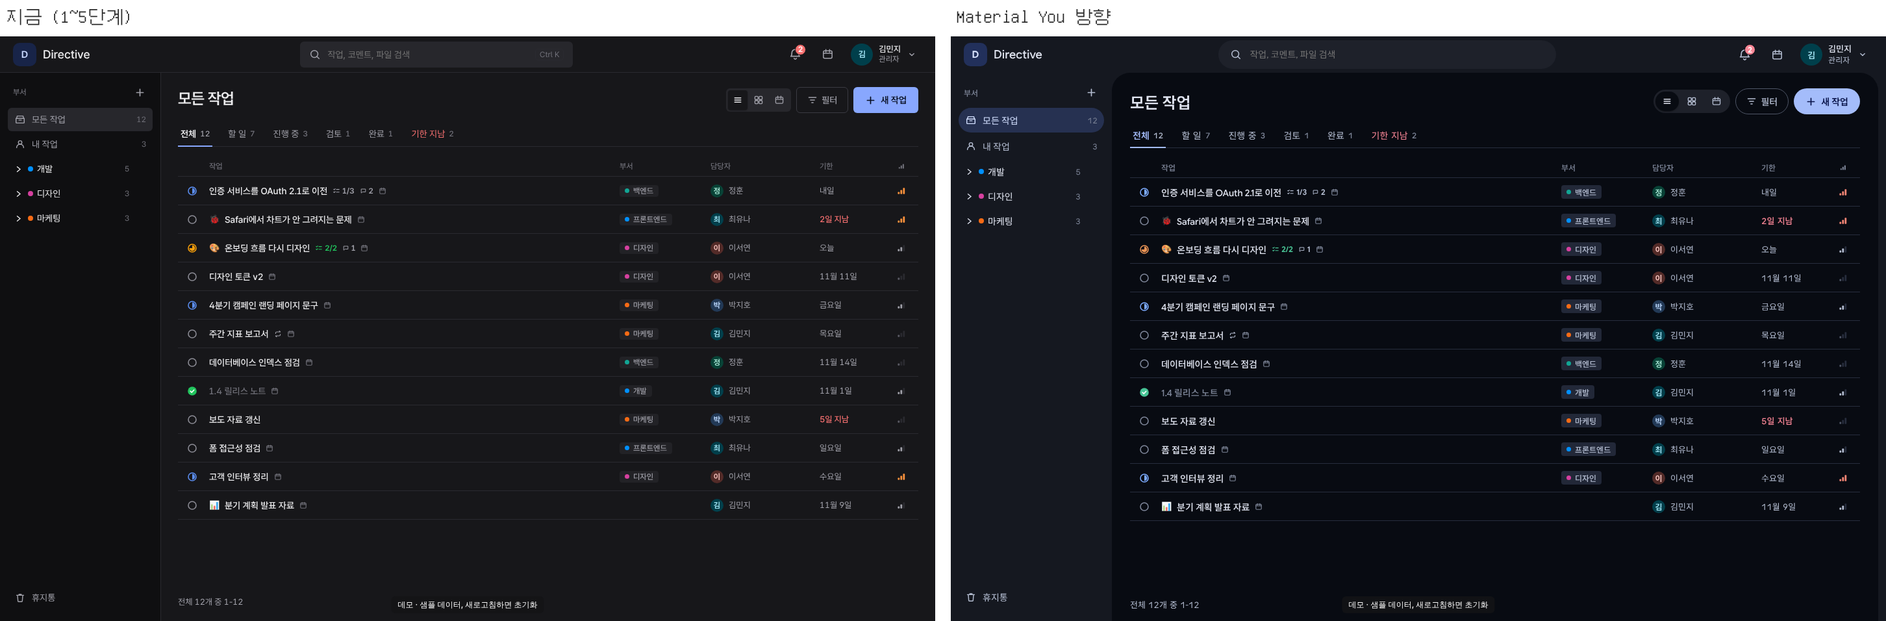
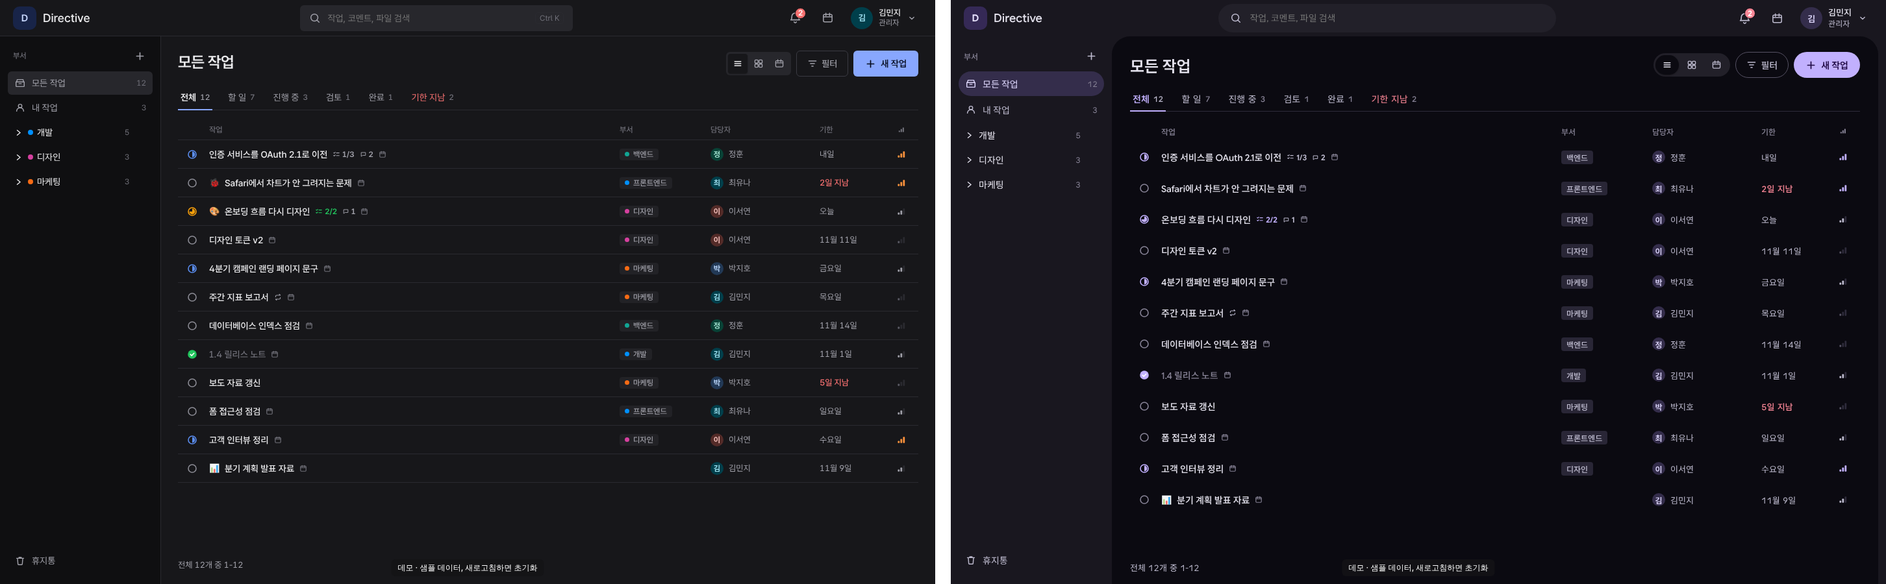
UI: purple accent, fewer colours, no dividers across all screens
Follows the Material You pass on the list through to every screen.

- Accent: Material's baseline purple #6750A4, with presets from the same
  tonal family.
- Fewer colours: status rings are grey for to do and the accent once work
  has started (the ring's fill already shows how far), with red kept for
  overdue only; high priority is the accent, the rest grey; every letter
  avatar uses the secondary container; checklists, progress and the
  calendar icon follow the accent instead of green. Department colours
  stay in the sidebar and calendar but leave the task tags. The demo's
  departments start without colours and with fewer emoji.
- No dividers: list rows, phone rows, the column-heading rule and the
  outlines on menus, popovers and board cards are gone; rows get rounded
  hover and selected backgrounds instead.
- Fix: the settings dialog now takes focus when it opens, and Escape works
  when focus has fallen back to the page outside the app root.
- docs: comparison images refreshed; the spec opens with the change of
  direction and what it supersedes.

Claude-Session: https://claude.ai/code/session_01NfUXVpwsyLAibRKH7HT9aF

diff --git a/server/static/app.js b/server/static/app.js
@@ -222,8 +222,6 @@
   // alike, but each is harmonized toward the seed (Material's colour
   // harmonization: turned up to 15 degrees toward it) so they sit in the same
   // family instead of reading as stock UI colours.
-  var STATUS_HUES = { inprogress: 255, review: 70, done: 150, overdue: 27 };
-  var PRIORITY_HUE = 45;
   function harmonize(hue, seed) {
     var d = ((seed - hue + 540) % 360) - 180;
     return hue + Math.max(-15, Math.min(15, d * 0.5));
@@ -286,7 +284,7 @@
       c.warningContainer = tone(harmonize(70, h), 0.06, 30);
       c.onWarningContainer = tone(harmonize(70, h), 0.08, 90);
     }
-    c.secondary = c.success;
+    c.secondary = c.primary;
     c.onSecondary = dark ? c.onPrimary : '#FFFFFF';
     c.tertiary = c.warning;
     c.tertiaryContainer = c.warningContainer;
@@ -296,30 +294,28 @@
   }
 
   // Status and priority colours for a scheme, harmonized toward its seed.
+  // Status and priority in one colour family. The ring's shape already says
+  // how far along a task is (empty, half, three quarters, full), so colour
+  // only has to separate "not started" from "under way": grey for to do, the
+  // accent for everything after it. Red is kept for one thing - late work -
+  // so it still stands out. High priority is the accent; the rest are grey.
   function statusColors(c) {
-    var h = hexToOklch(state.accent).H, dk = c.dark, out = {};
-    function tone(hue, chroma, t) { return oklchToHex(t / 100, chroma, hue); }
-    out.todo = { dot: c.textMuted, bg: c.surfaceContainerHigh, color: c.onSurfaceVariant };
-    Object.keys(STATUS_HUES).forEach(function (k) {
-      var hue = harmonize(STATUS_HUES[k], h);
-      out[k] = dk
-        ? { dot: tone(hue, 0.13, 74), bg: tone(hue, 0.06, 30), color: tone(hue, 0.08, 88) }
-        : { dot: tone(hue, 0.16, k === 'review' ? 66 : 56), bg: tone(hue, 0.05, 93), color: tone(hue, 0.12, 34) };
-    });
-    var ph = harmonize(PRIORITY_HUE, h);
-    return { status: out, priority: { High: dk ? tone(ph, 0.14, 74) : tone(ph, 0.17, 58), Medium: c.onSurfaceVariant, Low: c.outline } };
+    var on = { dot: c.primary, bg: c.secondaryContainer, color: c.onSecondaryContainer };
+    return {
+      status: {
+        todo: { dot: c.textMuted, bg: c.surfaceContainerHigh, color: c.onSurfaceVariant },
+        inprogress: on, review: on, done: on,
+        overdue: { dot: c.error, bg: c.errorContainer, color: c.onErrorContainer }
+      },
+      priority: { High: c.primary, Medium: c.onSurfaceVariant, Low: c.outline }
+    };
   }
 
-  // Letter avatars take one of eight quiet hues from the name, so a person
-  // keeps their colour everywhere and it never follows the accent.
-  var AVATAR_HUES = [25, 70, 135, 175, 215, 255, 300, 345];
+  // Letter avatars all share the secondary container: a name tells people
+  // apart, a rainbow of circles only adds noise.
   function avatarColors(name, dark) {
-    var s = String(name || ''), hash = 0;
-    for (var i = 0; i < s.length; i++) hash = (hash * 31 + s.charCodeAt(i)) | 0;
-    var hue = AVATAR_HUES[Math.abs(hash) % AVATAR_HUES.length];
-    return dark
-      ? { bg: oklchToHex(0.34, 0.06, hue), color: oklchToHex(0.88, 0.07, hue) }
-      : { bg: oklchToHex(0.92, 0.045, hue), color: oklchToHex(0.38, 0.09, hue) };
+    var c = deriveColors(state.accent, !!dark);
+    return { bg: c.secondaryContainer, color: c.onSecondaryContainer };
   }
 
   var TAB_ORDER = ['all', 'todo', 'inprogress', 'review', 'done', 'overdue'];
@@ -335,7 +331,7 @@
   var LOCALE = LANG === 'ko' ? 'ko-KR' : 'en-US';
   function shortDate(d) { return d.toLocaleDateString(LOCALE, { month: 'short', day: 'numeric' }); }
   var CONTENT_OUT_MS = 90, CONTENT_IN_MS = 140, MODAL_CLOSE_MS = 160;
-  var ACCENT_PRESETS = ['#3451D1', '#0F766E', '#7C3AED', '#C2410C', '#BE185D'];
+  var ACCENT_PRESETS = ['#6750A4', '#006A6A', '#3A5BA9', '#8B5000', '#984061'];
   var ICON = {
     listView: '<svg width="16" height="16" viewBox="0 0 20 20" fill="none" stroke="currentColor" stroke-width="1.7" stroke-linecap="round"><path d="M4 6h12M4 10h12M4 14h12"></path></svg>',
     gridView: '<svg width="16" height="16" viewBox="0 0 20 20" fill="none" stroke="currentColor" stroke-width="1.7"><rect x="3" y="3" width="6" height="6" rx="1.3"></rect><rect x="11" y="3" width="6" height="6" rx="1.3"></rect><rect x="3" y="11" width="6" height="6" rx="1.3"></rect><rect x="11" y="11" width="6" height="6" rx="1.3"></rect></svg>',
@@ -417,7 +413,7 @@
     guideModalPhase: 'closed',
     displayNameDraft: '',
 
-    accent: '#3451D1',
+    accent: '#6750A4',
     accentPickerPhase: 'closed',
     themeMode: 'system',
     appName: 'Directive',
@@ -3070,8 +3066,8 @@
     var shown = t.overdue ? 'overdue' : t.status;
     var dot = (maps.statusStyle[t.status] || maps.statusStyle.todo).dot;
     var done = t.status === 'done';
-    var cell = 'display:flex; align-items:center; min-width:0; padding:0 12px; height:44px; border-bottom:1px solid ' + c.outlineVariant + ';';
-    var dept = t.deptId ? '<span style="display:inline-flex; align-items:center; gap:6px; max-width:100%; overflow:hidden; font-size:12px; font-weight:500; padding:2px 8px; border-radius:var(--r-xs); background:' + c.surfaceVariant + '; color:' + c.onSurfaceVariant + ';">' + deptDot(t.deptId, 7) + '<span style="overflow:hidden; text-overflow:ellipsis; white-space:nowrap;">' + esc(nodeLabel(t.deptId).split(' · ').pop()) + '</span></span>' : '';
+    var cell = 'display:flex; align-items:center; min-width:0; padding:0 12px; height:48px;';
+    var dept = t.deptId ? '<span style="display:inline-flex; align-items:center; gap:6px; max-width:100%; overflow:hidden; font-size:12px; font-weight:500; padding:2px 8px; border-radius:var(--r-xs); background:' + c.surfaceVariant + '; color:' + c.onSurfaceVariant + ';"><span style="overflow:hidden; text-overflow:ellipsis; white-space:nowrap;">' + esc(nodeLabel(t.deptId).split(' · ').pop()) + '</span></span>' : '';
     // One row is one control: the cells sit on the table's own columns through
     // subgrid, so the whole row lights up under the pointer and takes a single
     // stop in the tab order, instead of six cells each reacting on their own.
@@ -3135,10 +3131,10 @@
     var dot = (maps.statusStyle[t.status] || maps.statusStyle.todo).dot;
     var done = t.status === 'done';
     var bits = [];
-    if (t.deptId) bits.push(deptDot(t.deptId, 7).replace('style="', 'style="display:inline-block; margin-right:5px; vertical-align:1px; ') + esc(nodeLabel(t.deptId).split(' · ').pop()));
+    if (t.deptId) bits.push(esc(nodeLabel(t.deptId).split(' · ').pop()));
     if (hasAssignee(t)) bits.push(esc(t.assignee));
     var due = t.dueDate ? '<span class="tnum" style="color:' + (t.overdue ? c.error : c.onSurfaceVariant) + '; font-weight:' + (t.overdue ? 500 : 400) + ';">' + esc(relativeDue(t.dueDate, t.overdue)) + '</span>' : '';
-    return '<div class="interactive task-row' + (t.id === state.justAddedTaskId ? ' row-highlight' : '') + '" data-action="openTask" data-id="' + t.id + '" style="display:flex; align-items:flex-start; gap:12px; padding:12px 4px; border-bottom:1px solid ' + c.outlineVariant + ';">'
+    return '<div class="interactive task-row' + (t.id === state.justAddedTaskId ? ' row-highlight' : '') + '" data-action="openTask" data-id="' + t.id + '" style="display:flex; align-items:flex-start; gap:12px; padding:12px 8px; border-radius:16px;">'
       + '<span style="padding-top:2px;">' + statusIconHtml(t.status, dot, 18) + '</span>'
       + '<div style="flex:1; min-width:0; display:flex; flex-direction:column; gap:4px;">'
       +   '<div style="display:flex; align-items:center; gap:6px; min-width:0;">' + taskIconHtml(t, 16) + '<span style="overflow:hidden; text-overflow:ellipsis; white-space:nowrap; font-size:15px; font-weight:500; color:' + (done ? c.textMuted : c.onSurface) + ';">' + esc(t.title) + '</span></div>'
@@ -3391,9 +3387,9 @@
     var v = taskView(t, maps, c);
     var writable = canWriteDept(t.deptId);
     var cls = 'interactive board-card' + (t.id === state.justAddedTaskId ? ' row-highlight' : '') + '';
-    return '<div class="' + cls + '"' + (writable ? ' draggable="true"' : '') + ' data-action="openTask" data-id="' + t.id + '" style="background:' + c.surface + '; border:1px solid ' + c.outlineVariant + '; border-radius:var(--r-md); box-shadow:var(--e1); padding:12px; min-width:0; display:flex; flex-direction:column; gap:8px;">'
+    return '<div class="' + cls + '"' + (writable ? ' draggable="true"' : '') + ' data-action="openTask" data-id="' + t.id + '" style="background:' + c.surface + '; border-radius:var(--r-md); padding:12px; min-width:0; display:flex; flex-direction:column; gap:8px;">'
       + '<div style="display:flex; align-items:flex-start; gap:6px; font-size:14px; font-weight:500; line-height:1.4; color:' + (t.status === 'done' ? c.textMuted : c.onSurface) + ';">' + taskIconHtml(t, 16) + '<span style="min-width:0; overflow-wrap:anywhere;">' + esc(t.title) + '</span></div>'
-      + '<div style="display:flex; align-items:center; gap:8px; flex-wrap:wrap; font-size:12px; color:' + c.textMuted + ';">' + (t.deptId ? '<span style="display:inline-flex; align-items:center; gap:5px; font-weight:500; padding:1px 6px; border-radius:var(--r-xs); background:' + c.surfaceVariant + '; color:' + c.onSurfaceVariant + ';">' + deptDot(t.deptId, 6) + esc(nodeLabel(t.deptId).split(' · ').pop()) + '</span>' : '') + taskBadges(t, c) + '</div>'
+      + '<div style="display:flex; align-items:center; gap:8px; flex-wrap:wrap; font-size:12px; color:' + c.textMuted + ';">' + (t.deptId ? '<span style="display:inline-flex; align-items:center; gap:5px; font-weight:500; padding:1px 6px; border-radius:var(--r-xs); background:' + c.surfaceVariant + '; color:' + c.onSurfaceVariant + ';">' + esc(nodeLabel(t.deptId).split(' · ').pop()) + '</span>' : '') + taskBadges(t, c) + '</div>'
       + searchMatchHtml(t, c)
       + '<div style="display:flex; align-items:center; gap:6px;">'
       +   (hasAssignee(t) ? assigneeAvatarHtml(t, v, 20) : '') + '<span style="flex:1;"></span>'
@@ -3514,7 +3510,7 @@
     var item = function (action, label, color) {
       return '<div class="interactive" role="menuitem" data-action="' + action + '" style="padding:9px 10px; border-radius:var(--r-sm); font-size:13px; color:' + color + ';">' + T(label) + '</div>';
     };
-    return '<div class="' + dropdownClass('brand') + '" role="menu" style="' + dropdownStyle('brand') + 'transform-origin:top left; position:absolute; top:46px; left:0; width:220px; background:' + c.surface + '; border:1px solid ' + c.outlineVariant + '; border-radius:var(--r-md); box-shadow:var(--e2); padding:8px; z-index:60; display:flex; flex-direction:column; gap:2px;">'
+    return '<div class="' + dropdownClass('brand') + '" role="menu" style="' + dropdownStyle('brand') + 'transform-origin:top left; position:absolute; top:46px; left:0; width:220px; background:' + c.surfaceContainer + '; border-radius:var(--r-md); box-shadow:var(--e2); padding:8px; z-index:60; display:flex; flex-direction:column; gap:2px;">'
       + '<div style="padding:6px 10px 4px 10px; font-size:12px; font-weight:500; color:' + c.onSurfaceVariant + ';">' + T('App icon (also used as the favicon)') + '</div>'
       + item('pickAppIcon', 'Upload image', c.onSurface)
       + item('removeAppIcon', 'Use the default icon', c.onSurface)
@@ -3614,7 +3610,7 @@
     var alertsSupported = typeof window.Notification === 'function';
 
     var notifPanel = (state.notifOpen || state.dropdownClosing === 'notif')
-      ? '<div class="' + dropdownClass('notif') + ' bell-panel" style="' + dropdownStyle('notif') + 'position:absolute; top:46px; right:0; width:380px; max-height:520px; display:flex; flex-direction:column; background:' + c.surface + '; border:1px solid ' + c.outlineVariant + '; border-radius:var(--r-md); box-shadow:var(--e2); z-index:60;">'
+      ? '<div class="' + dropdownClass('notif') + ' bell-panel" style="' + dropdownStyle('notif') + 'position:absolute; top:46px; right:0; width:380px; max-height:520px; display:flex; flex-direction:column; background:' + c.surfaceContainer + '; border-radius:var(--r-md); box-shadow:var(--e2); z-index:60;">'
         + '<div style="display:flex; align-items:center; gap:18px; padding:4px 14px 0; border-bottom:1px solid ' + c.outlineVariant + ';" role="tablist" aria-label="' + T('Notifications') + '">'
         +   bellTabBtn('mine', T('For you'), bellCount) + bellTabBtn('activity', T('Activity'), 0)
         +   (canMarkRead ? '<span class="interactive" data-action="markAllNotifsRead" style="margin-left:auto; font-size:12px; color:' + c.primary + '; font-weight:500;">' + T('Mark all read') + '</span>' : '')
@@ -3630,7 +3626,7 @@
       : '';
 
     var accountPanel = (state.accountOpen || state.dropdownClosing === 'account')
-      ? '<div class="' + dropdownClass('account') + '" style="' + dropdownStyle('account') + 'position:absolute; top:46px; right:0; width:260px; background:' + c.surface + '; border:1px solid ' + c.outlineVariant + '; border-radius:var(--r-md); box-shadow:var(--e2); padding:8px; z-index:60; display:flex; flex-direction:column; gap:2px;">'
+      ? '<div class="' + dropdownClass('account') + '" style="' + dropdownStyle('account') + 'position:absolute; top:46px; right:0; width:260px; background:' + c.surfaceContainer + '; border-radius:var(--r-md); box-shadow:var(--e2); padding:8px; z-index:60; display:flex; flex-direction:column; gap:2px;">'
         + '<div style="padding:8px 10px 6px 10px; display:flex; align-items:center; gap:10px;">'
           +   avatarHtml(avatarColors(state.user.displayName, c.dark).bg, avatarColors(state.user.displayName, c.dark).color, 44)
           +   '<div style="min-width:0;"><div style="font-size:13px; font-weight:600;">' + esc(state.user.displayName) + '</div><div style="font-size:12px; color:' + c.onSurfaceVariant + ';">@' + esc(state.user.username) + ' · ' + esc(T(state.user.role)) + '</div></div>'
@@ -3806,7 +3802,7 @@
 
     var filterField = 'height:36px; padding:0 10px; border-radius:var(--r-sm); border:1px solid ' + c.outline + '; font-size:13px; background:' + c.surface + '; color:' + c.onSurface + ';';
     var filterPanel = (state.filterOpen || state.dropdownClosing === 'filter')
-      ? '<div class="' + dropdownClass('filter') + '" style="' + dropdownStyle('filter') + 'position:absolute; top:46px; right:0; width:240px; background:' + c.surface + '; border:1px solid ' + c.outlineVariant + '; border-radius:var(--r-md); box-shadow:var(--e2); padding:14px; z-index:60; display:flex; flex-direction:column; gap:12px;">'
+      ? '<div class="' + dropdownClass('filter') + '" style="' + dropdownStyle('filter') + 'position:absolute; top:46px; right:0; width:240px; background:' + c.surfaceContainer + '; border-radius:var(--r-md); box-shadow:var(--e2); padding:14px; z-index:60; display:flex; flex-direction:column; gap:12px;">'
         + '<div><div style="font-size:12px; font-weight:600; letter-spacing:.03em; color:' + c.onSurfaceVariant + '; margin-bottom:6px;">' + T('SORT BY') + '</div>'
         +   mSelectFrom('<select id="filterSortSelect" aria-label="' + T('Sort by') + '" style="' + filterField + '">'
               + TASK_SORTS.map(function (o) { return '<option value="' + o[0] + '"' + (state.taskSort === o[0] ? ' selected' : '') + '>' + T(o[1]) + '</option>'; }).join('')
@@ -3835,7 +3831,7 @@
     var bodyHtml;
     var loadingNow = !state.tasksLoaded;
     if (isNarrowScreen()) {
-      bodyHtml = '<div data-scroll-key="' + esc(listScrollKey()) + '" style="flex:1; min-height:0; overflow:auto;"><div style="display:flex; flex-direction:column; border-top:1px solid ' + c.outlineVariant + ';">'
+      bodyHtml = '<div data-scroll-key="' + esc(listScrollKey()) + '" style="flex:1; min-height:0; overflow:auto;"><div style="display:flex; flex-direction:column; gap:2px;">'
         + (loadingNow ? skeletonRows(c, 6) : (pageItems.length ? pageItems.map(function (t) { return taskMobileRow(t, maps, c); }).join('') : emptyStateHtml(c)))
         + '</div></div>';
     } else if (state.viewMode === 'calendar') {
@@ -3855,7 +3851,7 @@
               var key = h[2], on = key && state.taskSort === key;
               var arrow = on ? '<svg width="10" height="10" viewBox="0 0 20 20" fill="none" stroke="currentColor" stroke-width="2.4" stroke-linecap="round" stroke-linejoin="round" aria-hidden="true"><path d="M10 4v12M5 11l5 5 5-5"></path></svg>' : '';
               var name = h[0] || h[1];
-              return '<div role="columnheader"' + (key ? ' class="interactive" data-action="sortByColumn" data-id="' + key + '" aria-sort="' + (on ? 'ascending' : 'none') + '" title="' + esc(T(on ? 'Back to the default order' : 'Sort by {col}', { col: name })) + '"' : '') + (h[1] ? ' aria-label="' + esc(h[1]) + '"' : '') + ' style="position:sticky; top:0; z-index:1; display:flex; align-items:center; gap:4px; height:32px; padding:0 12px; background:' + c.surface + '; font-size:12px; font-weight:' + (on ? 600 : 500) + '; color:' + (on ? c.onSurface : c.textMuted) + '; border-bottom:1px solid ' + c.outlineVariant + ';' + (i === 0 || i === 5 ? ' justify-content:center;' : '') + '">' + (i === 5 && !on ? '' : h[0]) + arrow + (i === 5 && !arrow ? '<svg width="12" height="12" viewBox="0 0 20 18" aria-hidden="true"><rect x="3" y="11" width="3.5" height="4" rx="1" fill="currentColor"></rect><rect x="8" y="7" width="3.5" height="8" rx="1" fill="currentColor"></rect><rect x="13" y="3" width="3.5" height="12" rx="1" fill="currentColor"></rect></svg>' : '') + '</div>';
+              return '<div role="columnheader"' + (key ? ' class="interactive" data-action="sortByColumn" data-id="' + key + '" aria-sort="' + (on ? 'ascending' : 'none') + '" title="' + esc(T(on ? 'Back to the default order' : 'Sort by {col}', { col: name })) + '"' : '') + (h[1] ? ' aria-label="' + esc(h[1]) + '"' : '') + ' style="position:sticky; top:0; z-index:1; display:flex; align-items:center; gap:4px; height:32px; padding:0 12px; background:' + c.surface + '; font-size:12px; font-weight:' + (on ? 600 : 500) + '; color:' + (on ? c.onSurface : c.textMuted) + ';' + (i === 0 || i === 5 ? ' justify-content:center;' : '') + '">' + (i === 5 && !on ? '' : h[0]) + arrow + (i === 5 && !arrow ? '<svg width="12" height="12" viewBox="0 0 20 18" aria-hidden="true"><rect x="3" y="11" width="3.5" height="4" rx="1" fill="currentColor"></rect><rect x="8" y="7" width="3.5" height="8" rx="1" fill="currentColor"></rect><rect x="13" y="3" width="3.5" height="12" rx="1" fill="currentColor"></rect></svg>' : '') + '</div>';
             }).join('')
         +   rowsHtml + emptyHtml
         + '</div></div>';
@@ -4196,7 +4192,7 @@
         + (m.deptId ? '<span style="margin-left:auto; font-size:12px; color:' + c.onSurfaceVariant + ';">' + esc(nodeLabel(m.deptId)) + '</span>' : '')
         + '</div>';
     }).join('');
-    return '<div role="listbox" aria-label="' + T('People to mention') + '" style="position:absolute; left:0; bottom:calc(100% + 6px); width:260px; max-width:100%; background:' + c.surface + '; border:1px solid ' + c.outlineVariant + '; border-radius:var(--r-md); box-shadow:var(--e2); padding:5px; z-index:5;">' + items + '</div>';
+    return '<div role="listbox" aria-label="' + T('People to mention') + '" style="position:absolute; left:0; bottom:calc(100% + 6px); width:260px; max-width:100%; background:' + c.surfaceContainer + '; border-radius:var(--r-md); box-shadow:var(--e2); padding:5px; z-index:5;">' + items + '</div>';
   }
 
   // Comment stamps are stored UTC; show them in the reader's own time.
@@ -4803,6 +4799,7 @@
   // open their own dialogs, on top of this one.
   function openSettings() {
     closeDropdowns();
+    focusDialogOnNextRender();
     setState({ settingsPhase: 'open', settingsSection: state.settingsSection || 'profile', displayNameDraft: state.user.displayName, appNameDraft: state.appName });
   }
   function closeSettings() {
@@ -5324,6 +5321,12 @@
   }
   document.addEventListener('keydown', function (e) {
     if (!state.user) return;
+    // Escape is handled inside the app root; this covers focus that has
+    // fallen back to the page itself, e.g. after a menu that opened a dialog.
+    if (e.key === 'Escape' && !document.getElementById('root').contains(e.target)) {
+      if (dismissTopmost()) e.preventDefault();
+      return;
+    }
     if ((e.metaKey || e.ctrlKey) && !e.altKey && (e.key === 'k' || e.key === 'K')) {
       e.preventDefault();
       if (state.paletteOpen) closePalette(); else openPalette();

diff --git a/server/static/styles.css b/server/static/styles.css
@@ -56,8 +56,8 @@ button, input, select, textarea { font-family: inherit; font-size: inherit; }
 input, select, textarea { transition: border-color var(--m-fast) ease, box-shadow var(--m-fast) ease; }
 input:not([type="checkbox"]):not([type="radio"]):focus, select:focus, textarea:focus {
   outline: none;
-  border-color: var(--primary, #3451D1);
-  box-shadow: 0 0 0 3px var(--primary-container, rgba(52, 81, 209, .16));
+  border-color: var(--primary, #6750A4);
+  box-shadow: 0 0 0 3px var(--primary-container, rgba(103, 80, 164, .16));
 }
 ::-webkit-scrollbar { width: 8px; height: 8px; }
 ::-webkit-scrollbar-thumb { background: var(--outline-variant); border-radius: var(--r-sm); }
@@ -91,7 +91,7 @@ input:not([type="checkbox"]):not([type="radio"]):focus, select:focus, textarea:f
    no idea where they are; :focus-visible keeps it off mouse clicks. */
 .interactive:focus { outline: none; }
 .interactive:focus-visible {
-  outline: 2px solid var(--primary, #3451D1);
+  outline: 2px solid var(--primary, #6750A4);
   outline-offset: 2px;
   border-radius: var(--r-sm);
 }
@@ -102,7 +102,7 @@ input:not([type="checkbox"]):not([type="radio"]):focus, select:focus, textarea:f
   z-index: 200;
   padding: 10px 16px;
   border-radius: var(--r-sm);
-  background: var(--primary, #3451D1);
+  background: var(--primary, #6750A4);
   color: var(--on-primary, #fff);
   font-size: 13px;
   font-weight: 600;
@@ -677,7 +677,7 @@ input[type="checkbox"], input[type="radio"] {
 input[type="checkbox"] { border-radius: var(--r-xs); }
 input[type="radio"] { border-radius: 50%; width: 20px !important; height: 20px !important; }
 input[type="checkbox"]:checked {
-  background: var(--primary, #3451D1); border-color: var(--primary, #3451D1);
+  background: var(--primary, #6750A4); border-color: var(--primary, #6750A4);
 }
 input[type="checkbox"]:checked::after {
   content: ''; position: absolute; left: 4.5px; top: 0.5px; width: 5px; height: 10px;
@@ -685,19 +685,19 @@ input[type="checkbox"]:checked::after {
   box-sizing: border-box;
 }
 input[type="radio"]:checked {
-  border-color: var(--primary, #3451D1);
-  background: radial-gradient(circle, var(--primary, #3451D1) 0 4.5px, transparent 5px);
+  border-color: var(--primary, #6750A4);
+  background: radial-gradient(circle, var(--primary, #6750A4) 0 4.5px, transparent 5px);
 }
 /* The state layer: a 40px circle, as Material draws around a selection control. */
 input[type="checkbox"]:hover:not(:disabled), input[type="radio"]:hover:not(:disabled) {
   box-shadow: 0 0 0 11px color-mix(in srgb, var(--on-surface, #1B1B1A) 8%, transparent);
 }
 input[type="checkbox"]:checked:hover:not(:disabled), input[type="radio"]:checked:hover:not(:disabled) {
-  box-shadow: 0 0 0 11px color-mix(in srgb, var(--primary, #3451D1) 8%, transparent);
+  box-shadow: 0 0 0 11px color-mix(in srgb, var(--primary, #6750A4) 8%, transparent);
 }
 input[type="checkbox"]:focus-visible, input[type="radio"]:focus-visible {
   outline: none;
-  box-shadow: 0 0 0 11px color-mix(in srgb, var(--primary, #3451D1) 14%, transparent);
+  box-shadow: 0 0 0 11px color-mix(in srgb, var(--primary, #6750A4) 14%, transparent);
 }
 input[type="checkbox"]:disabled, input[type="radio"]:disabled { opacity: .38; cursor: default; }
 
@@ -774,3 +774,7 @@ input[type="checkbox"]:disabled, input[type="radio"]:disabled { opacity: .38; cu
 [data-action="saveAppName"], [data-action="closeTaskModal"], [data-action="closeMapping"],
 .fab-new-task { border-radius: var(--r-full) !important; }
 .view-toggle > * { width: 36px !important; }
+
+/* Rows have no dividers: the hover and selected states give each one its
+   own rounded shape instead. */
+#task-list .task-row { border-radius: 16px; }

diff --git a/demo/mock-api.js b/demo/mock-api.js
@@ -28,11 +28,11 @@
     { id: 5, username: 'hoon', displayName: L('Hoon Jung', '정훈'), role: 'member', status: 'active', deptId: 'engineering/backend' }
   ];
   var depts = [
-    { id: 'engineering', name: L('Engineering', '개발'), parentId: '', calendarList: '', tag: '', feedToken: 'demo1', color: '#0090FF' },
+    { id: 'engineering', name: L('Engineering', '개발'), parentId: '', calendarList: '', tag: '', feedToken: 'demo1', color: '' },
     { id: 'engineering/frontend', name: L('Frontend', '프론트엔드'), parentId: 'engineering', calendarList: '', tag: '', feedToken: 'demo2', color: '' },
-    { id: 'engineering/backend', name: L('Backend', '백엔드'), parentId: 'engineering', calendarList: '', tag: '', feedToken: 'demo3', color: '#12A594' },
-    { id: 'design', name: L('Design', '디자인'), parentId: '', calendarList: '', tag: '', feedToken: 'demo4', color: '#D6409F' },
-    { id: 'marketing', name: L('Marketing', '마케팅'), parentId: '', calendarList: '', tag: '', feedToken: 'demo5', color: '#F76B15' }
+    { id: 'engineering/backend', name: L('Backend', '백엔드'), parentId: 'engineering', calendarList: '', tag: '', feedToken: 'demo3', color: '' },
+    { id: 'design', name: L('Design', '디자인'), parentId: '', calendarList: '', tag: '', feedToken: 'demo4', color: '' },
+    { id: 'marketing', name: L('Marketing', '마케팅'), parentId: '', calendarList: '', tag: '', feedToken: 'demo5', color: '' }
   ];
   var nextId = 100;
   function task(id, title, deptId, who, priority, due, status, extra) {
@@ -45,8 +45,8 @@
   }
   var tasks = [
     task(1, L('Migrate the auth service to OAuth 2.1', '인증 서비스를 OAuth 2.1로 이전'), 'engineering/backend', 5, 'High', day(1), 'inprogress', { description: L('Token store first, then a staged rollout.\nSpec: https://oauth.net/2.1/', '토큰 저장소부터, 그다음 단계적으로 배포합니다.\n명세: https://oauth.net/2.1/') }),
-    task(2, L('Fix chart rendering on Safari', 'Safari에서 차트가 안 그려지는 문제'), 'engineering/frontend', 4, 'High', day(-2), 'todo', { icon: '🐞' }),
-    task(3, L('Redesign the onboarding flow', '온보딩 흐름 다시 디자인'), 'design', 2, 'Medium', day(0), 'review', { icon: '🎨' }),
+    task(2, L('Fix chart rendering on Safari', 'Safari에서 차트가 안 그려지는 문제'), 'engineering/frontend', 4, 'High', day(-2), 'todo'),
+    task(3, L('Redesign the onboarding flow', '온보딩 흐름 다시 디자인'), 'design', 2, 'Medium', day(0), 'review'),
     task(4, L('Design tokens v2', '디자인 토큰 v2'), 'design', 2, 'Low', day(9), 'todo'),
     task(5, L('Q4 campaign landing page copy', '4분기 캠페인 랜딩 페이지 문구'), 'marketing', 3, 'Medium', day(4), 'inprogress'),
     task(6, L('Weekly metrics report', '주간 지표 보고서'), 'marketing', 1, 'Low', day(3), 'todo', { recurrence: 'FREQ=WEEKLY' }),

diff --git a/docs/ui-improvement-spec.md b/docs/ui-improvement-spec.md
@@ -5,6 +5,27 @@
 
 ---
 
+## 방향 수정: Material You로 되돌림 (최신)
+
+1~5단계의 진단 중 "Material You 기본값 자체가 식상하다"는 판단은 틀렸다. 실제 문제는
+구현(깨진 폰트, 크기 기준 없음, 진행 중·완료 색 겹침, 공간 낭비, 튀는 모션)이었고,
+정체성을 걷어내고 무채색 SaaS 기본 스타일로 바꾼 결과 다른 템플릿처럼 보이게 됐다.
+구조와 기능(레이아웃, 상세 패널, 보드·캘린더, 명령 메뉴, 타임라인, 일괄 선택)은
+유지하고, 표현은 Material You로 되돌린다. 아래 §0~§2의 색·모양 기준은 이 절이 대신한다.
+
+- **서체**: Google Sans Flex(영문) + Noto Sans KR(한글), 둘 다 SIL OFL, unicode-range
+  조각으로 동봉. Pretendard와 `ss06`(l·I 꼬리) 대체 글리프, 음수 자간 제거
+- **색**: 기본 액센트 Material 보라 `#6750A4`. 표면은 액센트의 옅은 톤 단계(surface
+  container), 상단 바·사이드바는 틀, 내용은 위쪽이 둥근 판. 선택 표시는 secondary
+  container 알약
+- **색 수 줄이기**: 상태는 링 모양으로 진행 정도를 나타내므로 색은 "할 일 = 회색,
+  그 이후 = 액센트" 두 가지에 기한 지남 빨강만. 우선순위 높음 = 액센트, 나머지 회색.
+  아바타는 모두 같은 톤. 부서 색은 사이드바 점과 캘린더 띠에만
+- **선 줄이기**: 목록 행 구분선, 열 제목 밑줄, 메뉴·카드 테두리 제거. 영역은 톤 차이와
+  둥근 hover·선택 배경으로 구분
+- **모양**: 8 / 12 / 28px, 버튼·검색창·보기 전환·내비 표시는 완전한 알약
+- 비교: `docs/ui-spec/material-you/compare-*.png` (왼쪽 이전, 오른쪽 현재)
+
 ## 0. 요약 — 왜 "조잡하고 식상해" 보이는가
 
 | # | 원인 | 근거 |
